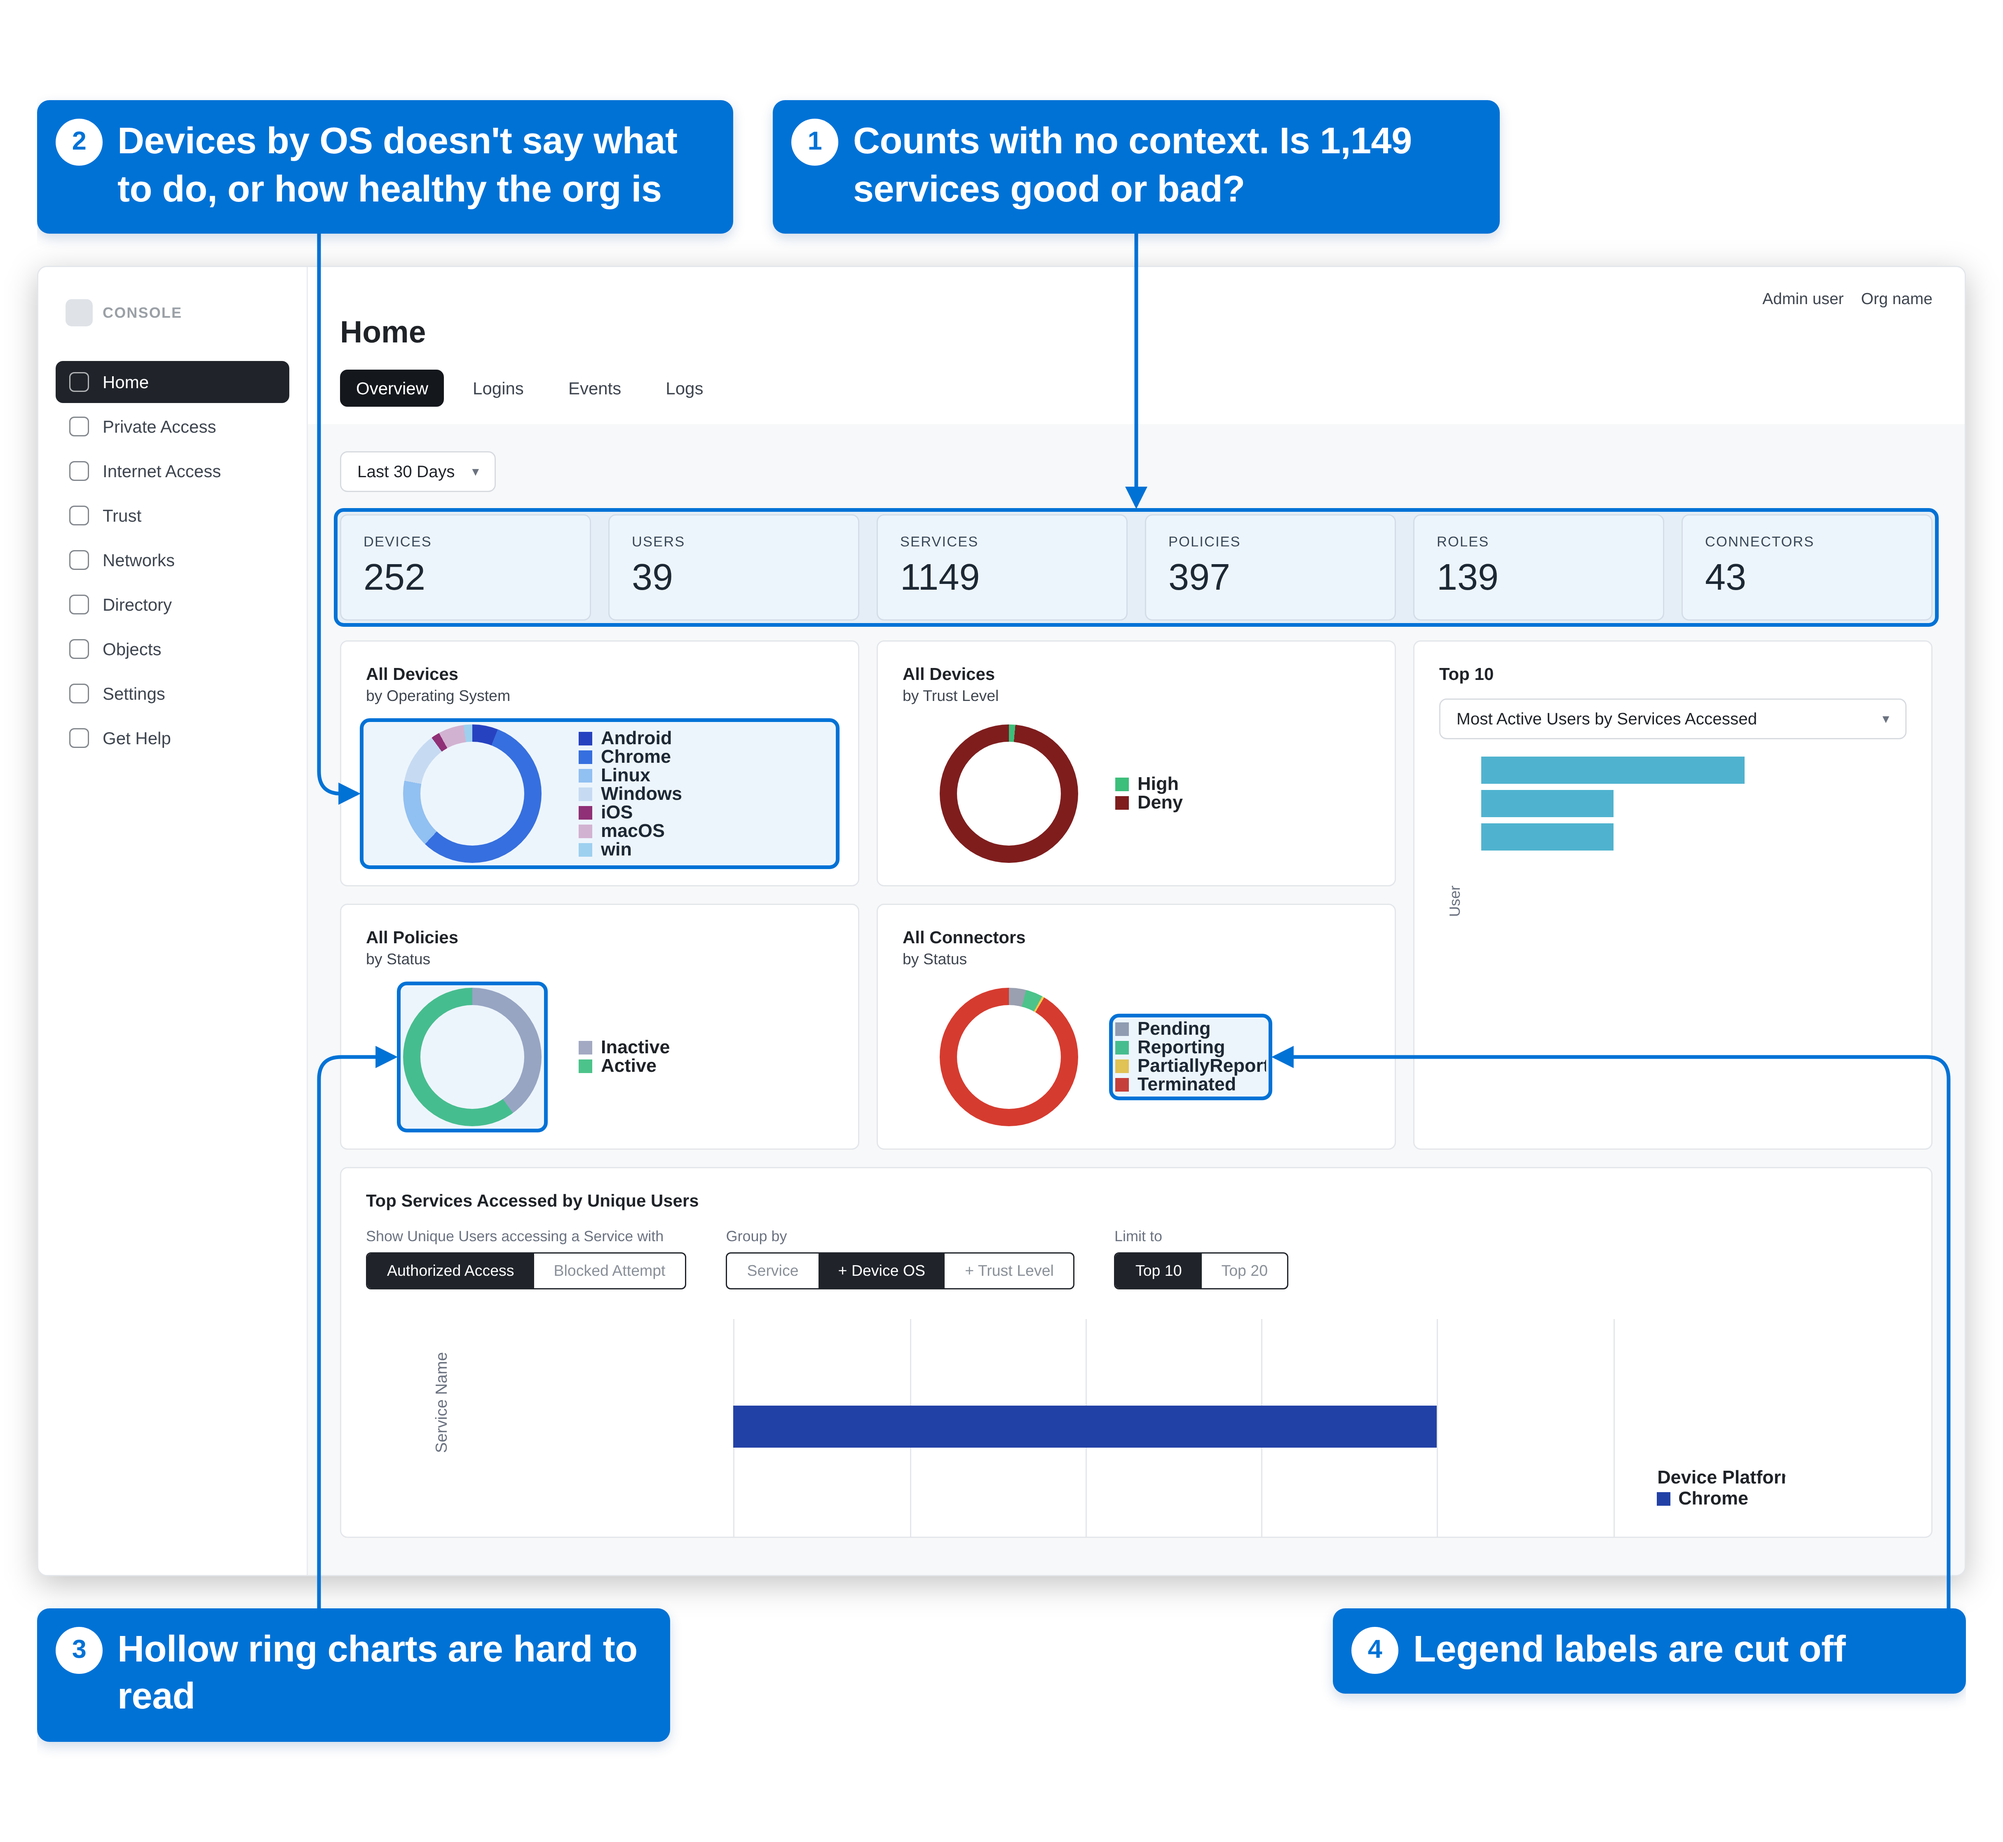
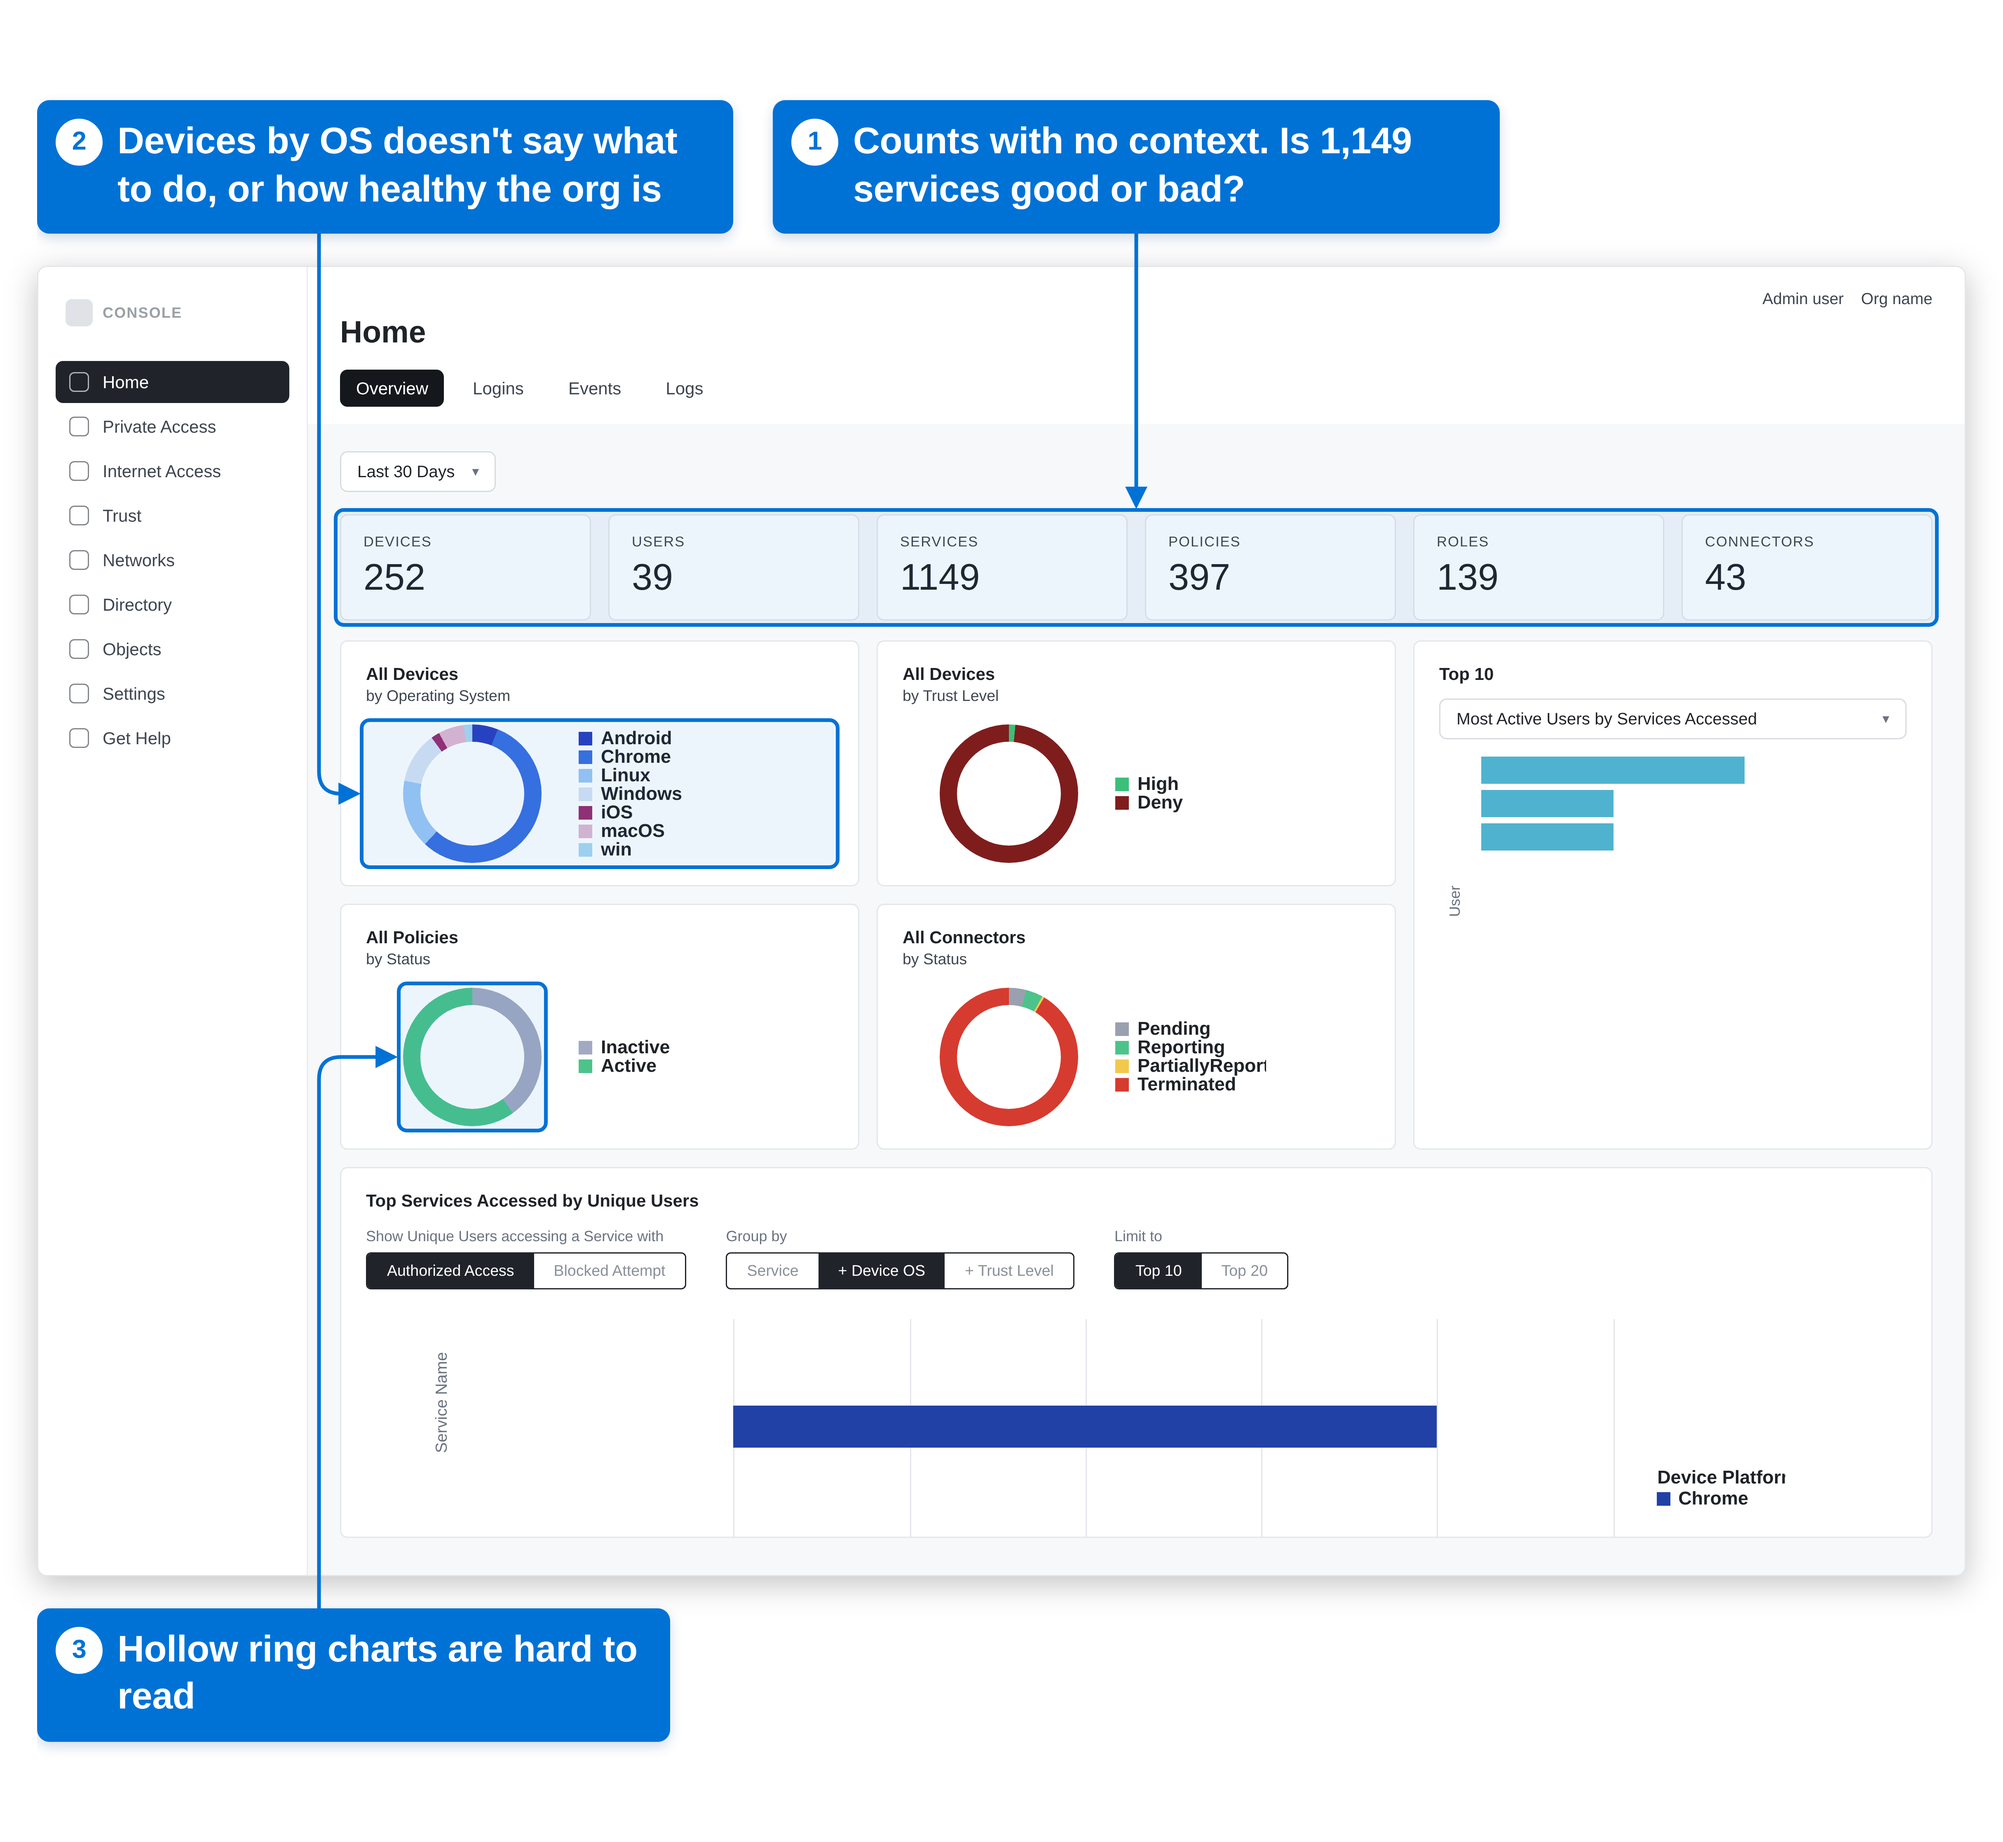
Console homepage: drop the cut-off legend callout and point
Claude-Session: https://claude.ai/code/session_01LSpc9GfWinUYVZHRac1AsR

Changed region(s): [[0.6525, 0.8707, 0.9942, 0.9329], [0.6214, 0.5597, 0.6525, 0.5908]]

diff --git a/docs/content-design/console-homepage.md b/docs/content-design/console-homepage.md
@@ -16,7 +16,7 @@ sidebar_position: 4
 
 ## The problem
 
-![A prototype of the homepage before the redesign. Callout 1 points to the row of counts, 2 to the devices by operating system chart, 3 to a hollow ring chart, and 4 to a legend cut off mid-word.](/img/content-design/console-home-before.png)
+![A prototype of the homepage before the redesign. Callout 1 points to the row of counts, 2 to the devices by operating system chart, and 3 to a hollow ring chart.](/img/content-design/console-home-before.png)
 
 <p className="shot-cap">Six counts and five charts, filtered to the last 30 days. Every chart describes what the organization has. None of them says whether the product is working.</p>
 
@@ -25,7 +25,6 @@ The homepage answered questions that admins don't ask when they sign in.
 1. **Counts with no context.** The top row counted devices, users, services, policies, roles, and connectors. 1,149 services is neither good nor bad.
 2. **No sense of what to do.** A chart of devices by operating system shows the mix of devices. It doesn't tell an admin what to act on, or whether the organization is in good health.
 3. **Hard-to-read charts.** Hollow ring charts make it hard to compare slices, especially thin ones.
-4. **Labels cut off.** Legends were cut off mid-word, so admins couldn't always tell what a color meant.
 
 ## The approach
 
